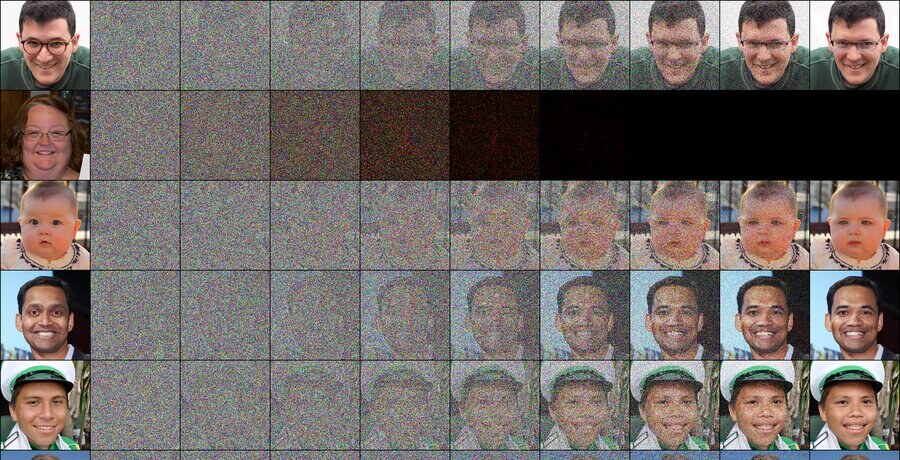
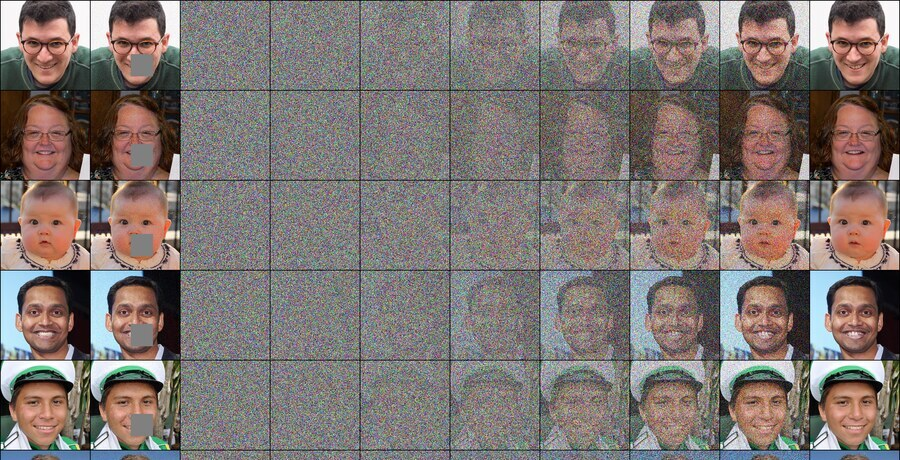
Smaller repo cards with scrollable references, kitchen gif, cleaner benchmark image

diff --git a/_pages/repositories.md b/_pages/repositories.md
@@ -10,7 +10,7 @@ A selection of my favorite projects. Everything else lives at [github.com/KHOUTA
 
   <div class="repo-card">
     <div class="repo-media">
-      <img src="/images/repos/diffusion-policy-pusht.gif" alt="Diffusion Policy agent solving the PushT task" loading="lazy" />
+      <img src="/images/repos/diffusion-policy-kitchen.gif" alt="Diffusion Policy agent solving the FrankaKitchen task" loading="lazy" />
     </div>
     <div class="repo-body">
       <h3 class="repo-title"><a href="https://github.com/KHOUTAIBI/DiffusionPolicy">DiffusionPolicy</a></h3>
@@ -27,7 +27,7 @@ A selection of my favorite projects. Everything else lives at [github.com/KHOUTA
 
   <div class="repo-card">
     <div class="repo-media">
-      <img src="/images/repos/generative-image-modeling.jpg" alt="Denoising trajectories reconstructing face images from noise" loading="lazy" />
+      <img src="/images/repos/generative-image-modeling.jpg" alt="Inpainting trajectories: masked face images restored through guided denoising" loading="lazy" />
     </div>
     <div class="repo-body">
       <h3 class="repo-title"><a href="https://github.com/KHOUTAIBI/GenerativeImageModeling">GenerativeImageModeling</a></h3>
@@ -119,7 +119,7 @@ A selection of my favorite projects. Everything else lives at [github.com/KHOUTA
   }
   .repo-media {
     background: #fff;
-    height: 215px;
+    height: 165px;
     display: flex;
     align-items: center;
     justify-content: center;
@@ -134,23 +134,25 @@ A selection of my favorite projects. Everything else lives at [github.com/KHOUTA
     display: flex;
     flex-direction: column;
     flex: 1;
-    padding: 0.9rem 1rem 1rem;
+    padding: 0.7rem 0.85rem 0.85rem;
   }
   .repo-title {
-    margin: 0 0 0.4rem;
-    font-size: 1.05rem;
+    margin: 0 0 0.35rem;
+    font-size: 1rem;
   }
   .repo-desc {
-    font-size: 0.85rem;
-    line-height: 1.5;
-    margin: 0 0 0.7rem;
+    font-size: 0.8rem;
+    line-height: 1.45;
+    margin: 0 0 0.6rem;
   }
   .repo-refs {
-    font-size: 0.78rem;
+    font-size: 0.75rem;
     line-height: 1.45;
     border-left: 3px solid rgba(128, 128, 128, 0.4);
     padding-left: 0.7rem;
-    margin-bottom: 0.8rem;
+    margin-bottom: 0.7rem;
+    max-height: 92px;
+    overflow-y: auto;
   }
   .repo-refs-label {
     display: block;
